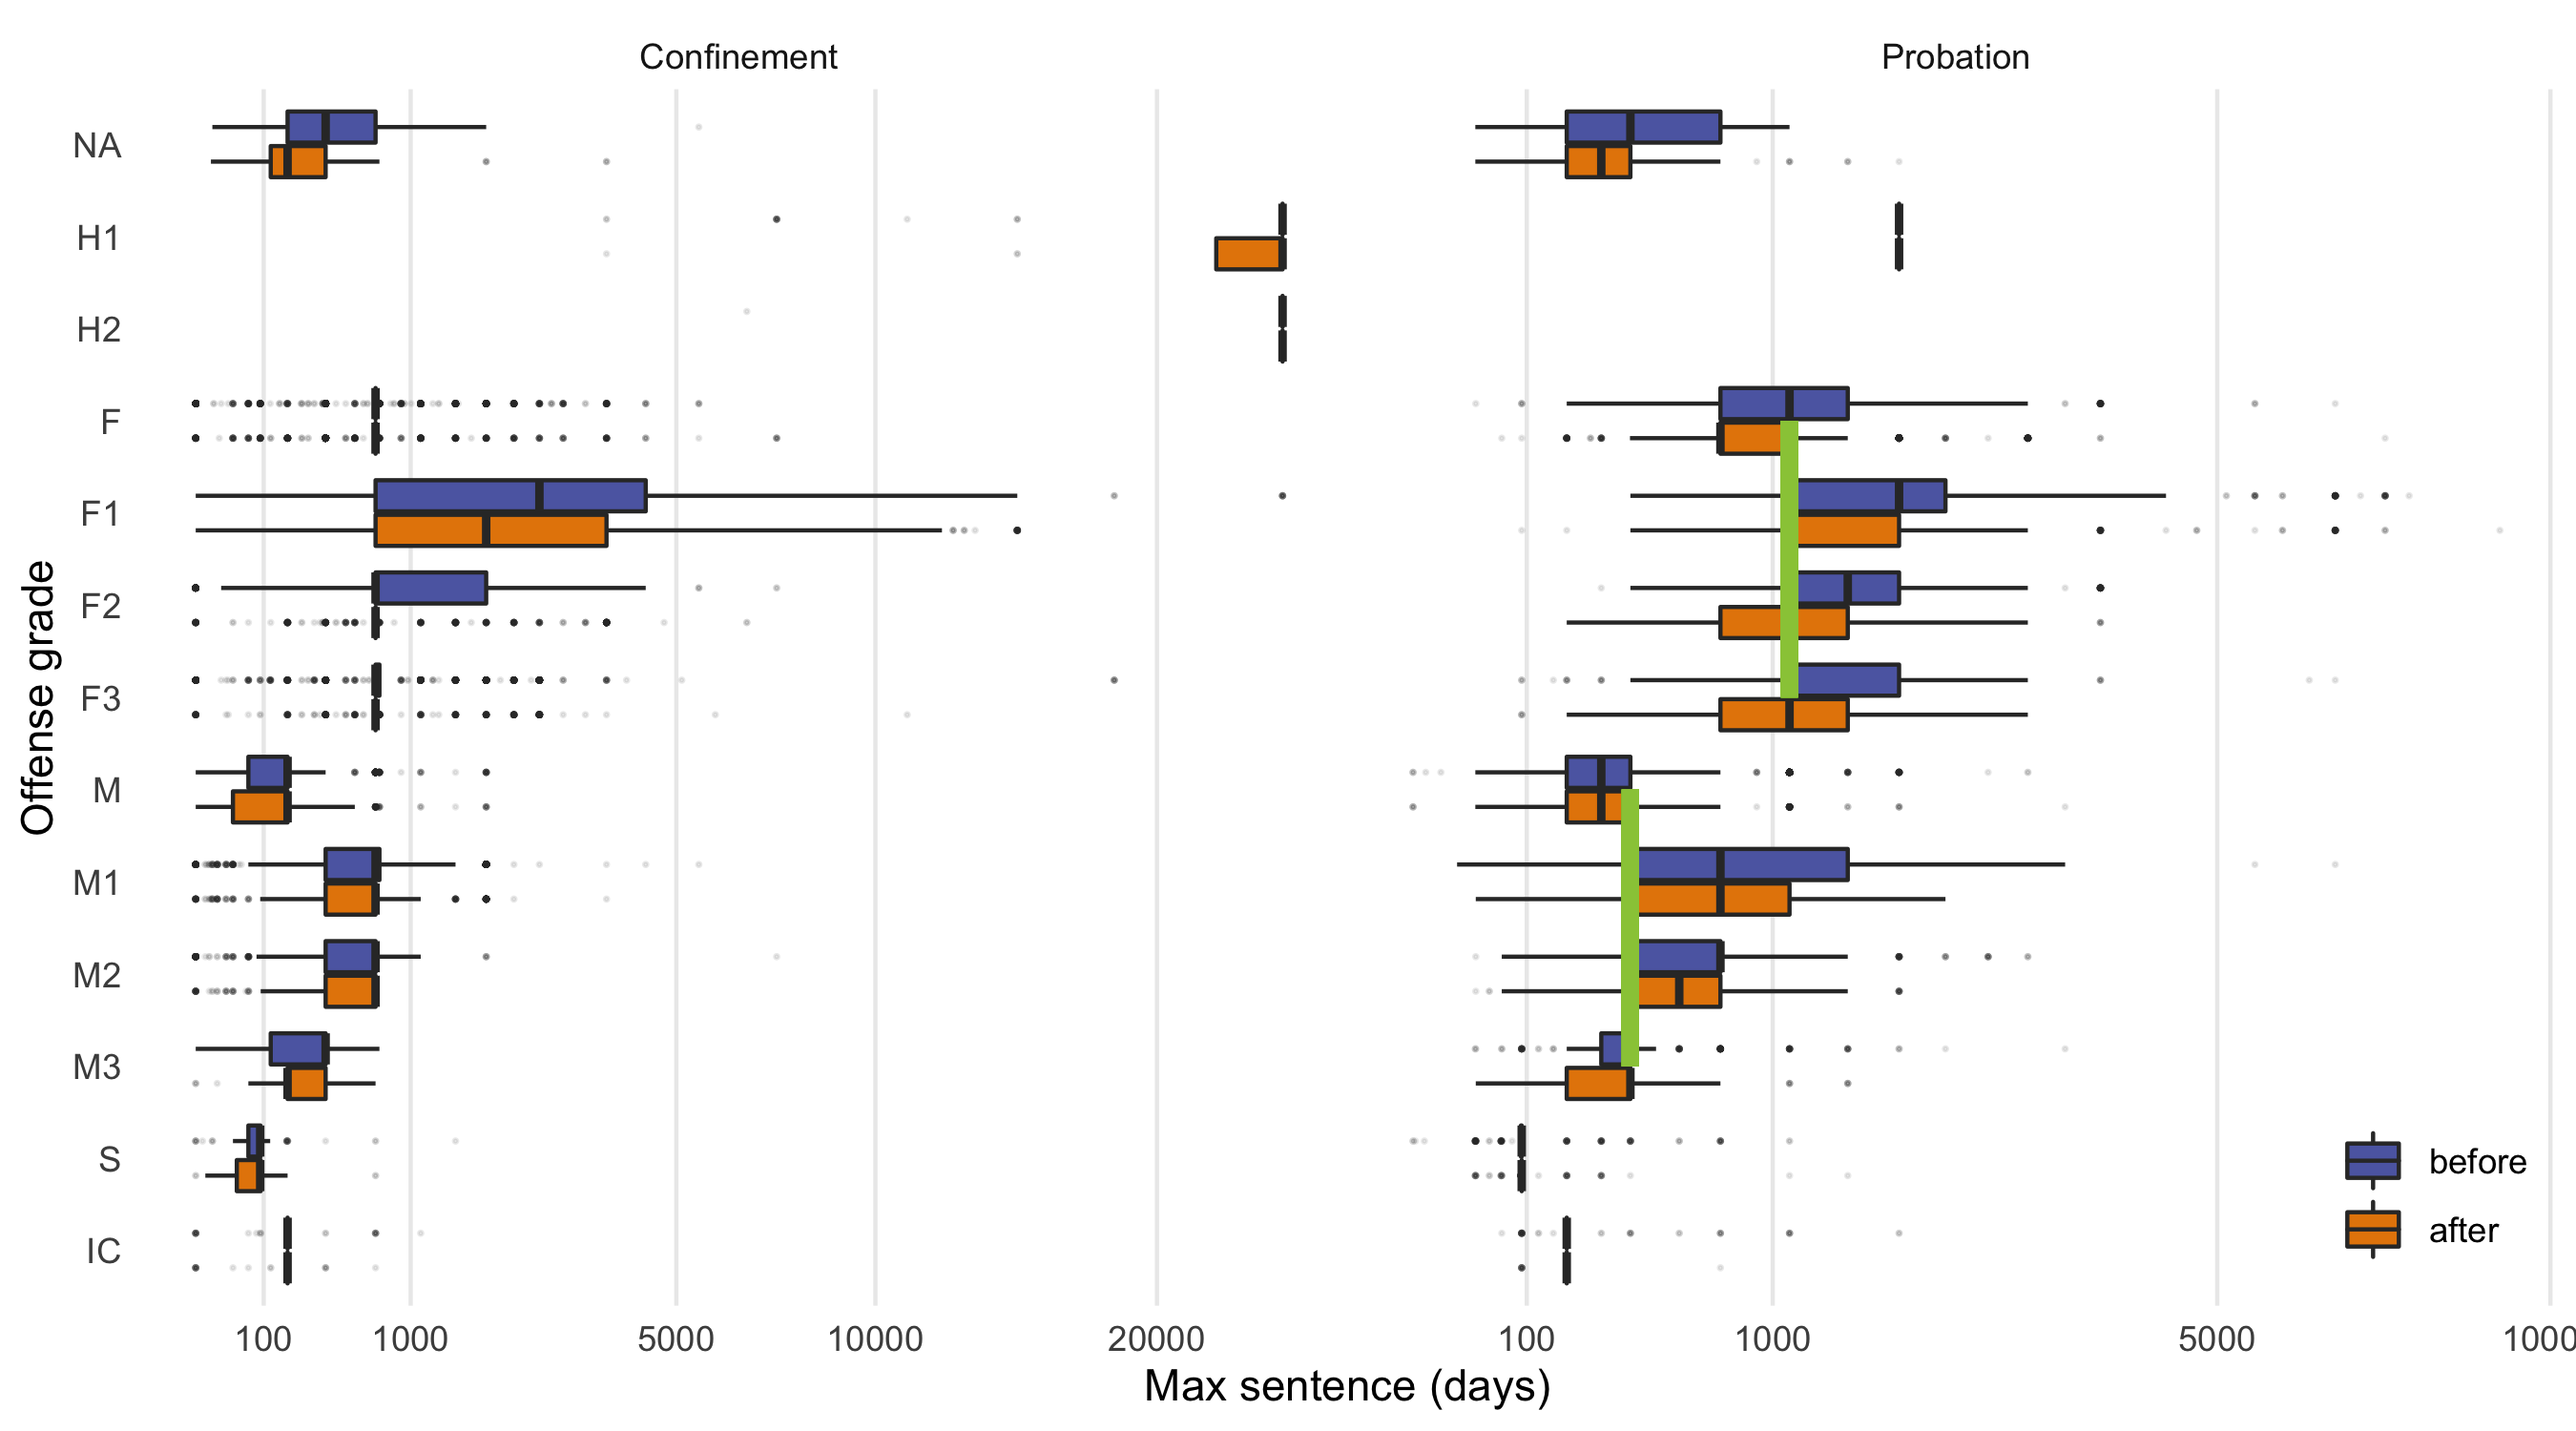
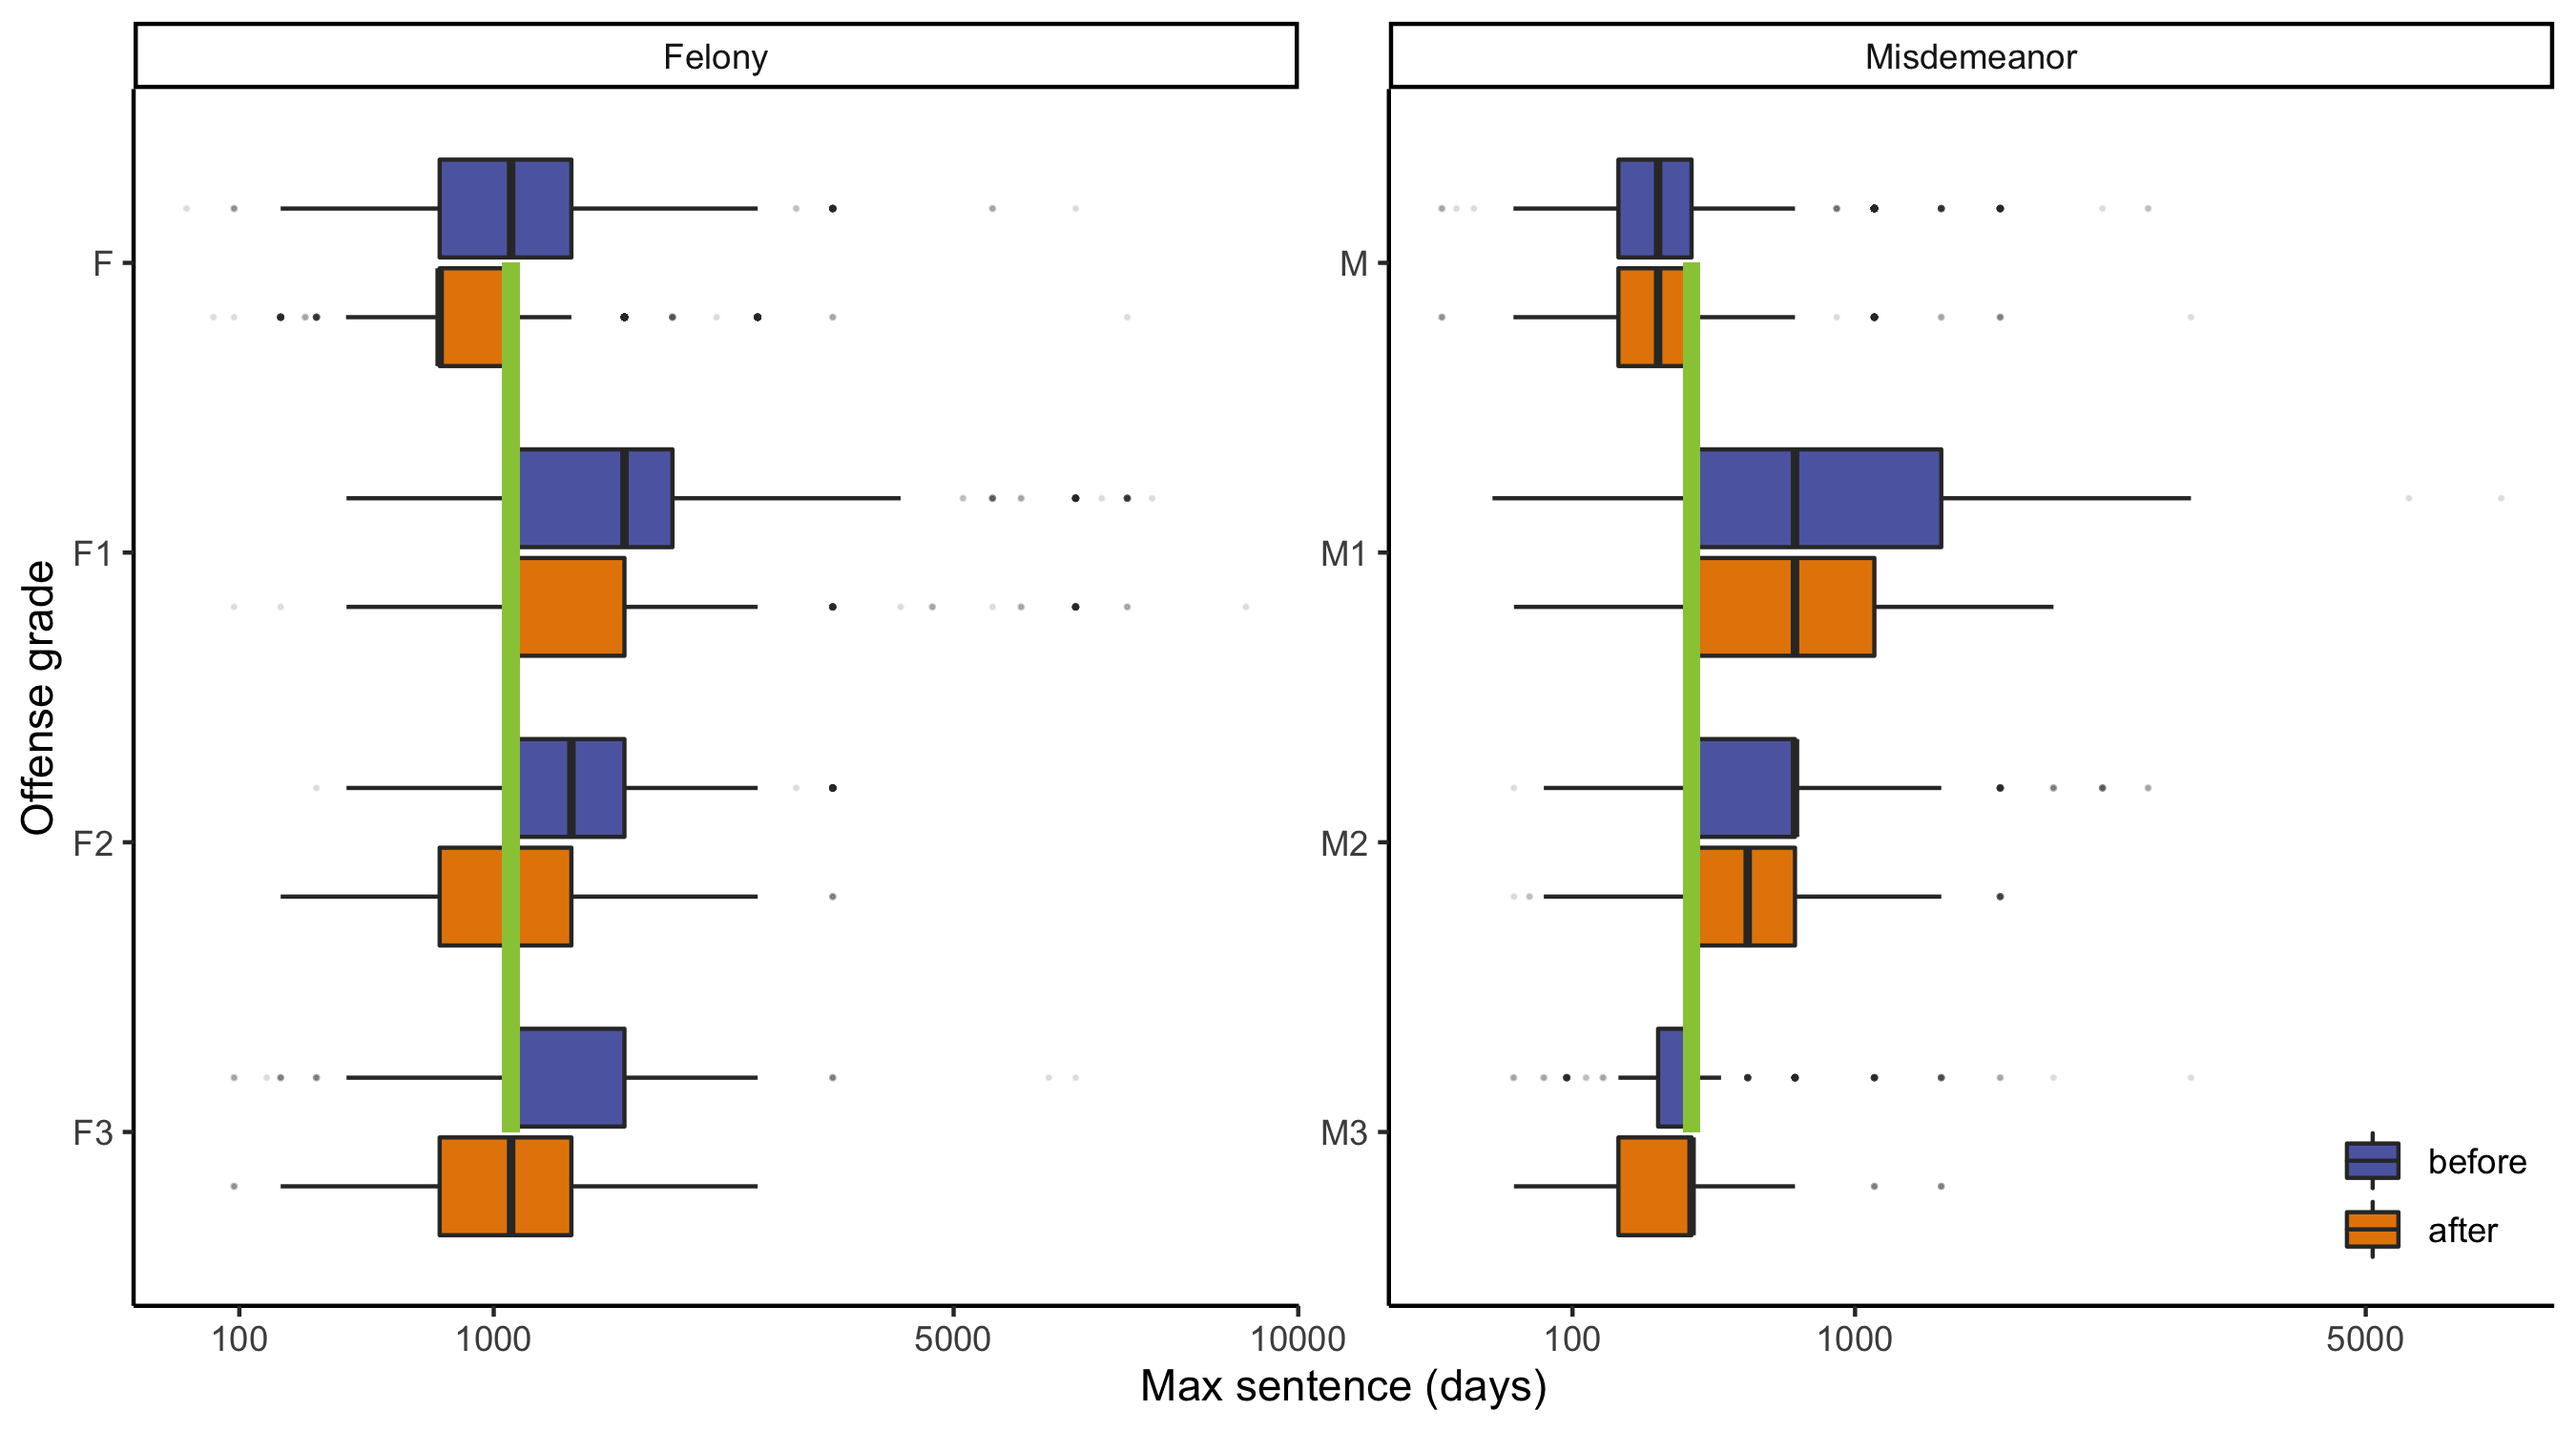
add Mitch's suggestion

diff --git a/analyses/team3/reports/max-sentencing.md b/analyses/team3/reports/max-sentencing.md
@@ -153,26 +153,38 @@ def_disp <- def_raw %>%
 
 def_disp %>%
   drop_na(period_bef_aft) %>%
-  filter(sentence_type != 'IPP') %>% 
+  mutate(
+    offense_type = substr(grade, 1, 1),
+    x_bar = case_when(
+      offense_type == "M" ~ 365,
+      offense_type == "F" ~ 3 * 365,
+      TRUE ~ NA_real_
+    ),
+    offense_facet = case_when(
+      offense_type == "M" ~ "Misdemeanor",
+      offense_type == "F" ~ "Felony",
+      TRUE ~ NA_character_
+    )
+  ) %>%
+  filter(
+    sentence_type == "Probation",
+    !is.na(x_bar)
+  ) %>%
   ggplot(aes(fill = period_bef_aft, x = max_period_days, y = grade)) +
   geom_boxplot(outlier.size = 0.2, outlier.alpha = 0.1) +
   scale_x_sqrt(breaks = c(100, 1000, 5000, 10000, 20000)) +
   labs(fill = NULL, y = "Offense grade", x = "Max sentence (days)") +
+  guides(fill = guide_legend(reverse = TRUE)) +
+  geom_segment(aes(x = x_bar, xend = x_bar, yend = offense_type),
+    color = "#99C945", size = 2
+  ) +
+  rcartocolor::scale_fill_carto_d() +
+  facet_wrap(vars(offense_facet), scales = "free") +
+  theme_classic() +
   theme(
     legend.position = c(0.95, 0.1),
     panel.grid.major.y = element_blank()
   ) +
-  guides(fill = guide_legend(reverse = TRUE)) +
-  geom_segment(
-    data = . %>% filter(sentence_type == 'Probation'),
-    mapping = aes(x = 365, xend = 365, y = 'M', yend = 'M3'),
-               color = '#99C945', size = 2) +
-  geom_segment(
-    data = . %>% filter(sentence_type == 'Probation'),
-    mapping = aes(x = 3*365, xend = 3*365, y = 'F', yend = 'F3'),
-               color = '#99C945', size = 2) +
-  rcartocolor::scale_fill_carto_d() +
-  facet_grid(cols = vars(sentence_type), scales = 'free') +
   # gghighlight::gghighlight(!grade %in% c("M1", "M3", "F", "S", "IC")) +
   NULL
 ```
